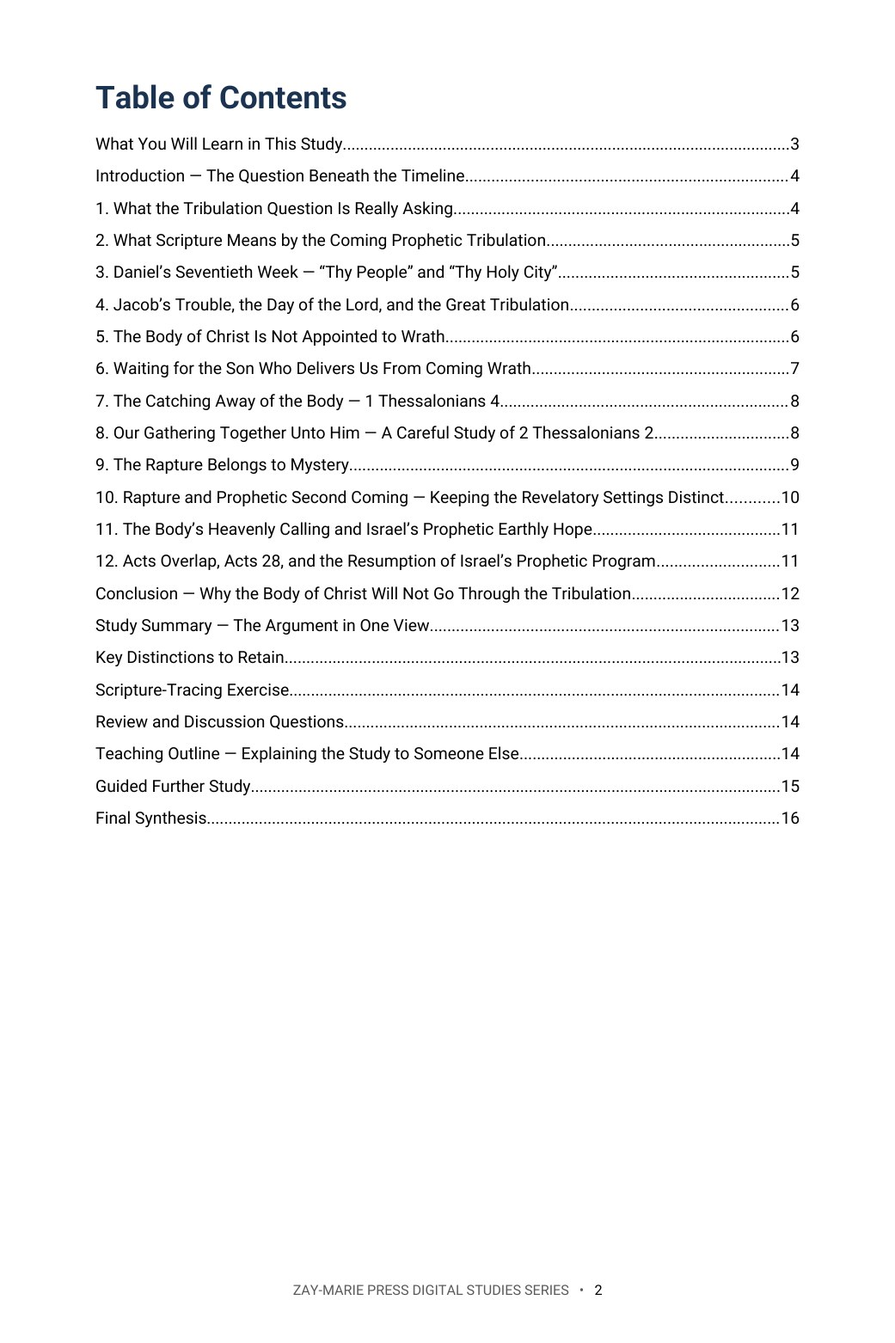
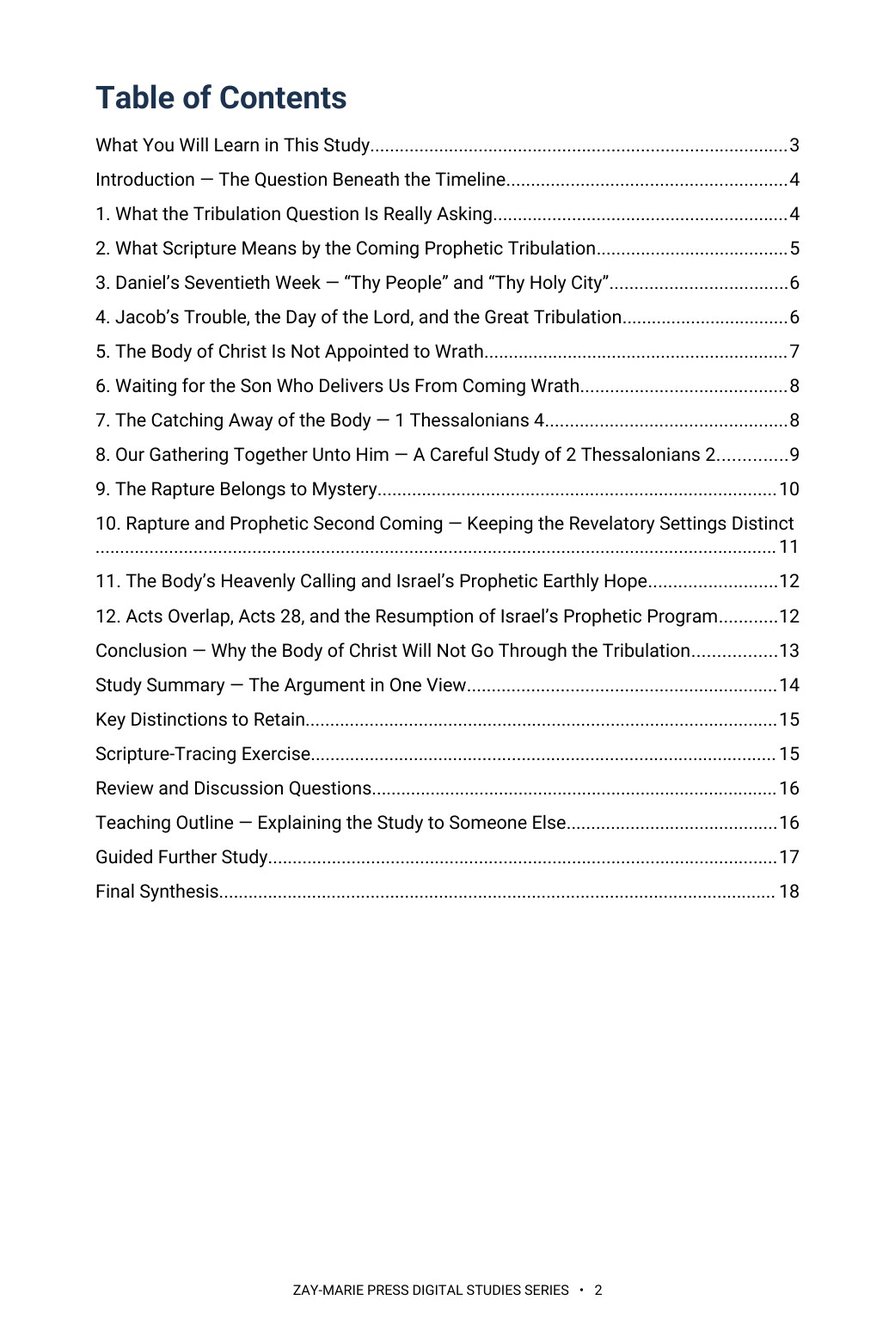
Study 3: rebuild at 18 pages with v1.51 imprint, Acts 28 sequence ruling, bulleted outlines; comparison-table preview moved to page 11
Claude-Session: https://claude.ai/code/session_01HC7bs9KYP2scp4hCL6DkTp

diff --git a/study-03-the-body-of-christ-and-the-tribulation.html b/study-03-the-body-of-christ-and-the-tribulation.html
@@ -46,10 +46,10 @@
 <section class="detail-section soft"><div class="wrap"><div class="eyebrow">A LOOK INSIDE</div><h2>Preview the Study Before You Purchase</h2><p class="preview-instruction">Click any page to enlarge it for reading.</p><div class="preview-grid">
 <div class="preview-card"><a class="preview-image-link" data-preview-lightbox href="assets/study-03-page-2.jpg"><img src="assets/study-03-page-2.jpg" alt="Study 3 interior preview — page 2, Table of Contents"/></a><div class="page-no">Page 2</div><h3>Table of Contents</h3><p>See the full structure of the study, from the introduction through the final synthesis.</p></div>
 <div class="preview-card"><a class="preview-image-link" data-preview-lightbox href="assets/study-03-page-3.jpg"><img src="assets/study-03-page-3.jpg" alt="Study 3 interior preview — page 3, What You Will Learn in This Study"/></a><div class="page-no">Page 3</div><h3>What You Will Learn</h3><p>See the study’s learning goals, including the prophetic identity of the Tribulation, Paul’s cumulative Thessalonian argument, the Rapture as Mystery truth, and the Acts Overlap chronology.</p></div>
-<div class="preview-card"><a class="preview-image-link" data-preview-lightbox href="assets/study-03-page-10.jpg"><img src="assets/study-03-page-10.jpg" alt="Study 3 interior preview — page 10, Rapture and Prophetic Second Coming comparison table"/></a><div class="page-no">Page 10</div><h3>Rapture &amp; Prophetic Second Coming</h3><p>Begin the comparison of the Body’s gathering with the prophetic Second Coming while preserving their distinct audiences, movements, purposes, and revelatory settings.</p></div>
+<div class="preview-card"><a class="preview-image-link" data-preview-lightbox href="assets/study-03-page-11.jpg"><img src="assets/study-03-page-11.jpg" alt="Study 3 interior preview — page 11, Rapture and Prophetic Second Coming comparison table"/></a><div class="page-no">Page 11</div><h3>Rapture &amp; Prophetic Second Coming</h3><p>Begin the comparison of the Body’s gathering with the prophetic Second Coming while preserving their distinct audiences, movements, purposes, and revelatory settings.</p></div>
 </div></div></section>
 <section class="detail-section"><div class="wrap"><div class="eyebrow">WHAT’S INCLUDED</div><h2>A Focused Study Built for<br/>Understanding and Teaching</h2><div class="includes-grid">
-<div class="include-item"><h3>16-Page In-Depth Biblical Study</h3><p>A focused examination of the Tribulation question built from audience, revelatory setting, programmatic identity, and cumulative biblical evidence.</p></div>
+<div class="include-item"><h3>17-Page In-Depth Biblical Study</h3><p>A focused examination of the Tribulation question built from audience, revelatory setting, programmatic identity, and cumulative biblical evidence.</p></div>
 <div class="include-item"><h3>12 Core Teaching Sections</h3><p>Progress from the identity of the prophetic Tribulation through Paul’s teaching on the Body’s gathering, heavenly hope, and Acts Overlap chronology.</p></div>
 <div class="include-item"><h3>Study Summary &amp; Key Distinctions</h3><p>Retain the controlling distinctions between ordinary suffering and prophetic wrath, programmatic identity and chronology, Mystery and Prophecy, and suspension and cancellation.</p></div>
 <div class="include-item"><h3>Scripture-Tracing Exercise</h3><p>Record audience, event or promise, programmatic setting, and each passage’s contribution before consulting the study’s conclusions.</p></div>
@@ -58,7 +58,7 @@
 <div class="include-item"><h3>Six Guided Further-Study Investigations</h3><p>Trace prophetic wrath, Daniel’s people and city, the gathering passages, disputed details, the Body’s heavenly calling, and Acts Overlap chronology.</p></div>
 <div class="include-item"><h3>Final Synthesis Exercise</h3><p>Construct a two- to three-page biblical explanation of why the Acts Overlap places the Body outside Israel’s future prophetic Tribulation.</p></div>
 </div></div></section>
-<section class="detail-section cream"><div class="wrap"><div class="final-buy"><div><div class="eyebrow">STUDY 3 · DIGITAL STUDY</div><h2>The Body of Christ and the Tribulation</h2><p>16-page digital PDF · For personal use</p></div><div class="final-offer"><div class="detail-price">$5.99</div><span class="detail-button pending" aria-disabled="true">Get the Study</span></div></div><a class="back-link" href="digital-studies.html">← Back to All Digital Studies</a></div></section>
+<section class="detail-section cream"><div class="wrap"><div class="final-buy"><div><div class="eyebrow">STUDY 3 · DIGITAL STUDY</div><h2>The Body of Christ and the Tribulation</h2><p>17-page digital PDF · For personal use</p></div><div class="final-offer"><div class="detail-price">$5.99</div><span class="detail-button pending" aria-disabled="true">Get the Study</span></div></div><a class="back-link" href="digital-studies.html">← Back to All Digital Studies</a></div></section>
 <section class="study-method-course-bridge"><div class="wrap"><div class="study-method-course-panel"><div><div class="eyebrow">BUILD THE INTERPRETIVE METHOD</div><h2>Want More Than a Focused Study?</h2><p>Digital Studies examine particular biblical subjects and difficult passages. The 40-lesson Biblical Hermeneutics course teaches a complete, repeatable method for establishing meaning in context, determining proper assignment, and making responsible application.</p></div><a class="btn btn-primary" href="biblical-hermeneutics-course.html">BIBLICAL HERMENEUTICS COURSE</a></div></div></section></main><div class="preview-lightbox" id="preview-lightbox" role="dialog" aria-modal="true" aria-label="Enlarged study page preview"><button class="preview-lightbox-close" type="button" aria-label="Close enlarged preview">×</button><img src="" alt=""/><div class="preview-lightbox-hint">Scroll to read the full page · Press Esc or click outside the page to close</div></div>
 <footer class="site-footer"><div class="wrap footer-grid"><div class="footer-about"><h3>Zay-Marie Press</h3><p class="footer-tagline"><em>Where the Bible Means What It Says.</em></p><p>Zay-Marie Press is a Christian theological publisher dedicated to producing doctrinally precise, carefully structured biblical resources that equip pastors, teachers, and serious students with clarity, depth, and Scripture-anchored truth.</p><p><a href="https://zaymariepress.com">zaymariepress.com</a><br/><a href="mailto:info@zaymariepress.com">info@zaymariepress.com</a></p></div><div class="footer-column"><h3>Explore</h3><div class="footer-links-stacked"><a href="books.html">Books</a><br/><a href="series.html">Series</a><br/><a href="biblical-hermeneutics-course.html">Course</a><br/><a href="digital-studies.html">Digital Studies</a><br/><a href="resources.html">Resources</a><br/><a href="bible-book-summaries.html">Bible Book Summaries</a><br/><a href="doctrinal-packets.html">Doctrinal Packets</a><br/><a href="historical-drift.html">Historical Drift</a><br/><a href="about.html">About</a><br/><a href="contact.html">Contact</a></div></div><div class="footer-column"><h3>Reader Support</h3><div class="footer-links-stacked"><a href="reader-support.html#faq">FAQ</a><br/><a href="reader-support.html#shipping-returns">Shipping &amp; Returns</a><br/><a href="reader-support.html#digital-downloads">Digital Downloads</a><br/><a href="reader-support.html#contact-support">Contact Support</a></div></div><div class="footer-column"><h3>Acts Overlap</h3><p><strong>Acts Overlap Theology Series</strong></p><p><em>Two Distinct Streams. One Overlap.</em></p><p><a href="series.html">Series Overview</a></p></div></div><div class="wrap footer-bottom">© 2026 Zay-Marie Press. All rights reserved.</div></footer>
 <script src="site.js"></script><script>(function(){var box=document.getElementById("preview-lightbox"),img=box.querySelector("img"),close=box.querySelector(".preview-lightbox-close"),hint=box.querySelector(".preview-lightbox-hint"),hintTimer;function shut(){clearTimeout(hintTimer);box.classList.remove("open");hint.classList.remove("fade");document.body.style.overflow="";img.src="";}document.querySelectorAll("[data-preview-lightbox]").forEach(function(a){a.addEventListener("click",function(e){e.preventDefault();clearTimeout(hintTimer);img.src=a.getAttribute("href");img.alt=a.querySelector("img").alt;hint.classList.remove("fade");box.classList.add("open");document.body.style.overflow="hidden";box.scrollTop=0;hintTimer=setTimeout(function(){hint.classList.add("fade");},3000);});});close.addEventListener("click",shut);box.addEventListener("click",function(e){if(e.target===box)shut();});document.addEventListener("keydown",function(e){if(e.key==="Escape"&&box.classList.contains("open"))shut();});})();</script>

diff --git a/site.js b/site.js
@@ -62,7 +62,7 @@ const resourceModal=document.querySelector('#resource-modal'), resourceModalTitl
 if(resourceModal&&resourceModalTriggers.length){const closeResourceModal=()=>{resourceModal.hidden=true;document.body.classList.remove('resource-modal-open');lastResourceTrigger?.focus();};resourceModalTriggers.forEach(trigger=>trigger.addEventListener('click',()=>{lastResourceTrigger=trigger;if(resourceModalTitle)resourceModalTitle.textContent=trigger.dataset.title||'Resource';if(resourceModalDescription)resourceModalDescription.textContent=trigger.dataset.description||'';if(resourceModalLink){resourceModalLink.href=trigger.dataset.href||'#';resourceModalLink.textContent=trigger.dataset.linkText||'OPEN RESOURCE';}resourceModal.hidden=false;document.body.classList.add('resource-modal-open');resourceModalClose?.focus();}));resourceModalClose?.addEventListener('click',closeResourceModal);resourceModal.addEventListener('click',e=>{if(e.target===resourceModal)closeResourceModal();});document.addEventListener('keydown',e=>{if(e.key==='Escape'&&!resourceModal.hidden)closeResourceModal();});}
 
 /* Display the verified final-PDF page count at the primary purchase decision point. */
-const digitalStudyPageCounts={1:20,2:19,3:16,4:17,5:15,6:15,7:14,8:13,9:15,10:20,11:15,12:15,13:18,14:15,15:15,16:16,17:17,18:18,19:18,20:18,21:16,22:15,23:14,24:16,25:17,26:16,27:16,28:17,29:19,30:18,31:19,32:19,33:18,34:20,35:22,36:20,37:21,38:22,39:22,40:23,41:21,42:17,43:16,44:19,45:19,46:20,47:20,48:20,49:20,50:20,51:20,52:19,53:19,54:17,55:20,56:20,57:20,58:19,59:20,60:15,61:14,62:18,63:17,64:17,65:16,66:16,67:17,68:16,69:17,70:17,71:16};
+const digitalStudyPageCounts={1:20,2:19,3:18,4:17,5:15,6:15,7:14,8:13,9:15,10:20,11:15,12:15,13:18,14:15,15:15,16:16,17:17,18:18,19:18,20:18,21:16,22:15,23:14,24:16,25:17,26:16,27:16,28:17,29:19,30:18,31:19,32:19,33:18,34:20,35:22,36:20,37:21,38:22,39:22,40:23,41:21,42:17,43:16,44:19,45:19,46:20,47:20,48:20,49:20,50:20,51:20,52:19,53:19,54:17,55:20,56:20,57:20,58:19,59:20,60:15,61:14,62:18,63:17,64:17,65:16,66:16,67:17,68:16,69:17,70:17,71:16};
 const digitalStudyMatch=window.location.pathname.match(/\/study-(\d+)-/i);
 const digitalStudyFormat=document.querySelector('.detail-hero .detail-format');
 if(digitalStudyMatch&&digitalStudyFormat){const studyNumber=Number(digitalStudyMatch[1]),pageCount=digitalStudyPageCounts[studyNumber];if(pageCount)digitalStudyFormat.textContent=`Digital PDF · ${pageCount} Pages`;}

diff --git a/build-tools/studies/b03/ed03r.py b/build-tools/studies/b03/ed03r.py
@@ -1,0 +1,41 @@
+from edcommon import *
+import re
+SUSP="nationally suspended—not canceled, transferred or absorbed"
+SEQ="Acts 28 establishes the suspension boundary; the sequence this study draws from it — the Body’s gathering before Israel’s prophetic program resumes — rests on 1 Thessalonians 4–5 and 2 Thessalonians 2, not on Acts 28 alone."
+def apply(els):
+    assert T(els[3])=='By the end of the study, you should be able to:'
+    els[3]=mk('body',[['By the end of this study, you should be able to:',False,False]])
+    rep(els,'Explain why Daniel’s seventieth week concerns Daniel’s people and holy city.','Read Daniel 9:24–27 for the audience the prophecy names, and test whether the seventieth week can be relabeled without changing that audience.')
+    rep(els,'Explain 1 Thessalonians 1:10, 4:13–18, and 5:1–9 as a cumulative Pauline argument.','Follow 1 Thessalonians 1:10, 4:13–18 and 5:1–9 passage by passage, noting how each adds to the one before it.')
+    rep(els,'Explain why the Rapture belongs to the Mystery revealed through Paul.','Trace where the catching away of the Body is revealed in Scripture, and compare its revelatory setting with the prophetic Tribulation passages.')
+    rep(els,'Use the Acts Overlap chronology to explain why Prophecy can resume after the present Mystery purpose is complete.','Follow the Acts 9–28 overlap and the Acts 28 passage, noting what each says about the two programs and what each leaves unstated.')
+    rep(els,'Trace and reproduce the biblical reasoning for the Body’s pre-Tribulation gathering to Christ.','Practise restating, from the passages and in your own words, how each step of the study’s argument is built, so that you can reproduce it for someone else.')
+    # Study Outline and Teaching Outline: group lines bullet / number, items second level
+    def regroup(h,group_kind):
+        a=[k for k,e in enumerate(els) if P(e) and e['kind'] in('sub','h1') and T(e).startswith(h)][0]+1
+        k=a
+        while not (els[k]['kind']=='h1'  or (els[k]['kind']=='ctitle')):
+            e=els[k]; t=T(e)
+            if e['kind']=='body' and re.match(r'^[IVX]+\. ',t): els[k]=mk(group_kind,[[re.sub(r'^[IVX]+\. ','',t),False,False]])
+            elif e['kind']=='bul': els[k]=mk('bul2',[[t,False,False]])
+            k+=1
+    regroup('Study Outline','bul')
+    regroup('Teaching Outline','num')
+    # Acts 28 conforming
+    rep(els,'At Acts 28, Israel’s active Prophecy Program enters national judicial suspension, not abolition and not a transfer. The Mystery Program continues beyond Acts 28. Suspension, however, is not cancellation. God’s covenants','At Acts 28, Israel’s active Prophecy Program was %s. %s The Mystery Program continues beyond Acts 28. God’s covenants'%(SUSP,SEQ))
+    rep(els,'Acts 28 is the national judicial suspension, not abolition and not a transfer of Israel’s active Prophecy Program; Mystery continues.','At Acts 28 Israel’s active Prophecy Program was %s; Mystery continues.'%SUSP)
+    rep(els,'At Acts 28, Israel’s active Prophecy Program entered national judicial suspension, not abolition and not a transfer while Mystery continued.','At Acts 28, Israel’s active Prophecy Program was %s—while Mystery continued.'%SUSP.replace('—not','—not',1))
+    rep(els,'Acts 28 is the national judicial suspension, not abolition and not a transfer of Prophecy without canceling Israel’s promises.','At Acts 28 Israel’s Prophecy Program was %s, and Israel’s promises stand.'%SUSP)
+    rep(els,'Acts 28: national judicial suspension of Prophecy (not abolition, not a transfer); Mystery continues','Acts 28: Prophecy nationally suspended (not canceled, transferred or absorbed); Mystery continues')
+    rep(els,'Prophecy under national judicial suspension, not abolition and not a transfer at Acts 28 while Mystery continues.','Prophecy nationally suspended—not canceled, transferred or absorbed—at Acts 28 while Mystery continues.')
+    n=0
+    for e in els:
+        if e['type']=='tbl':
+            for r in e['rows']:
+                for ci,c in enumerate(r):
+                    if c=='Acts 28 national judicial suspension of Prophecy': r[ci]='Acts 28 national suspension of Prophecy'; n+=1
+    assert n==1
+    i=find(els,'This is overlap, not replacement, blending')
+    ins_after_idx(els,i,R17)
+    number_outline(els)
+    return els

diff --git a/build-tools/fixnum2.py b/build-tools/fixnum2.py
@@ -7,6 +7,7 @@ numpart=d.part.numbering_part.element
 groups=[];cur=[]
 for p in d.paragraphs:
     if p.style.name=='List Number': cur.append(p)
+    elif p.style.name=='List Bullet 2' and cur: pass
     else:
         if cur: groups.append(cur); cur=[]
 if cur: groups.append(cur)

diff --git a/CLAUDE.md b/CLAUDE.md
@@ -26,7 +26,7 @@ These are kept in the repo at `controlling-documents/` and are the current versi
 - **`build-tools/`** — the study rebuild toolkit (scripts, per-study edit files, README), committed 2026-10-04 at the publisher's approval so the retrofit method and every per-study wording edit survive a session reset. Working tools only; the site does not use them. Not a rule.
 **`controlling-documents/Digital_Studies_Relationship_Map_v1.39.md`** — records each study's distinct subject, its related studies, the eight priced six-study collections, the Paul's Missionary Journeys cross-reference map, and the five primary catalog categories (currently version 1.39, covers Studies 1–71; update it as new studies publish, bump the version number, rename the file to match, and log the change in its own version-history table — mirroring the Master Standard's `_vX.Y` filename convention). Check a proposed topic against it before recommending or writing a new study. (2026-09-28: the file was missing from this repo despite this note referencing it; replaced from the publisher's copy and bumped v1.15→v1.25 in the same pass. If this note ever again points to a version not present under `controlling-documents/`, ask the publisher for a copy rather than proceeding without the check.)
 - **`controlling-documents/Digital_Studies_Category_Standard_v1.1.md`** — FINAL and binding (publisher, 2026-10-01): the rules for the five primary catalog categories (Foundations, Israel & Prophecy, Body of Christ, Passages, Doctrinal Themes), the ordered decision procedure for new studies, the precedents, all 71 fixed assignments, and the cover-label form for each category. Read it before placing any card or cover label. Do not ask the publisher where a study belongs; apply the procedure and state the result. Only the publisher changes a ruling; then bump this Standard's version and filename, re-letter the cover, and update the Relationship Map.
-- **`controlling-documents/Doctrinal_Upgrade_Retrofit_Plan_v1.135.md`** — working tracker for retrofitting Studies 1–59 to the 2026-10-02 doctrinal upgrade (Framework/PAM v1.1, Master Standard v1.40, Rules 7–17): withdrawn-wording search keys, impact tiers, waves and the per-study method. Read it before continuing the retrofit in any session; update status, bump the version and rename the file as work proceeds.
+- **`controlling-documents/Doctrinal_Upgrade_Retrofit_Plan_v1.136.md`** — working tracker for retrofitting Studies 1–59 to the 2026-10-02 doctrinal upgrade (Framework/PAM v1.1, Master Standard v1.40, Rules 7–17): withdrawn-wording search keys, impact tiers, waves and the per-study method. Read it before continuing the retrofit in any session; update status, bump the version and rename the file as work proceeds.
 - **`controlling-documents/Doctrinal_Packet_Standard_v0.3.md`** — Doctrinal Packet Standard (DRAFT; §7 approved). Governs the separate Doctrinal Packets product strand (5-page interpretive PDFs per Bible book — a print-friendly cover as page 1 plus 4 content pages, $2.99, KJV, pilot: Genesis, live at `packet-genesis.html`, hub `doctrinal-packets.html`; site pages say "5 Pages", cover styles live in `packets.css`, Old Testament blue and New Testament soft pale green, hub listed in Bible order). **Preview rule (publisher directive, 2026-09-29, packets only):** previews show about one page's worth in two cropped views (top of page 1 through the anchor texts; the chart section) — never the exegesis, architecture, Mystery contrast, logic chain, outline, or closing. Master Standard §16/§17 still govern Digital Studies. Bump the version and rename the file as the Standard is finalized.
 - **`controlling-documents/Preview_Page_Spoiler_Retrofit_Audit_v1.4.md`** — working tracker for the Studies 1–60 preview-page conclusion-spoiler retrofit (see the section below). Read it before continuing that audit in any session; update its status fields and changelog, bump the version, and rename the file to match as the audit proceeds — same `_vX.Y` convention as the other controlling documents. As of v1.1, the website-side half was DONE: all 60 studies' "What You'll Study" text was judged against the rule (methodology documented in the file) and 22 points across 11 studies were rewritten and pushed; an unrelated Study 22 content bug (Study 21's content had leaked into it) was also found and fixed. As of v1.2, the publisher supplied Studies 1–60's interior production PDFs and the interior-PDF half was also surveyed (read-only): 10 studies (37, 41, 45, 47, 48, 49, 51, 52, 53, 54) were found to have at least one interior "What You Will Learn" violation, 50 studies were confirmed compliant, and the orphaned `assets/study-45-sanctification-under-grace.docx` (removed from the repo per the publisher in v1.0) was confirmed word-for-word identical to Study 45's actual production interior PDF content. As of v1.3, the publisher supplied editable DOCX sources for all 10 violating studies; all 15 violating points were rewritten and approved, delivered as corrected final PDFs, and — along the way — a second defect was found and fixed (Studies 47 and 48's source DOCX still had an unintegrated cover placeholder despite both being long-published live with real covers; fixed by inserting the existing approved cover art). The website's "What You Will Learn" preview image (`study-NN-page-3.jpg`) was regenerated from the corrected content for all 10 studies and pushed to `main` (commit `cea1859`), verified against a fresh clone. **The website side of this audit is now fully compliant for all 60 studies.** Outstanding: the publisher's purchasable interior PDF files themselves have corrected versions delivered, but distribution to existing purchasers was decided by the publisher on 2026-09-29: silent swap of the files behind the existing downloads, no reissue notice (recorded in the v1.4 changelog entry; the product files are not in this repo).
 

diff --git a/controlling-documents/Doctrinal_Upgrade_Retrofit_Plan_v1.136.md b/controlling-documents/Doctrinal_Upgrade_Retrofit_Plan_v1.136.md
@@ -228,3 +228,5 @@ Working tracker for correcting published studies to the Framework/PAM v1.1, Mast
 - v1.133 (2026-10-04): Study 50 rebuilt in Roboto at 10 pt on the current page, 20 pages (was 19), from the publisher's FINAL ROBOTO DOCX. Publisher rulings: (1) Section 5.1 'Shared Ground' renamed 'What Both Elections Share: God’s Sovereign Initiative' (option 1) — the section says each election is made by God’s initiative, not man’s (Deut 7:7; Eph 2:8–9), Romans 11:6 removed from the pairing, and every 'shared ground' reference became 'shared feature' (Rule 19: no shared saving ground stated); (2) 2 Thessalonians 2:13–14 gets the boundary sentence 'The Day of the Lord described earlier in the chapter (2:1–12) belongs to Israel’s Prophecy Program; this study draws on verses 13–14 only…', passage-form audience sentence kept. Conforming: four withdrawn Acts 28 lines ('judicial suspension … administrative condition, with membership unchanged'; 'unbelief suspends in administration'; 'present national unbelief has suspended'; a Jeremiah line implying unbelief causes suspension) replaced with the standing 'nationally suspended at Acts 28—not canceled, transferred or absorbed' line and the boundary sentence once; Study Outline bulleted; What You Will Learn bullet 5 reworded to process wording. Lettered group labels in Guided Further Study left as labels. Website: page text 19 to 20 (interior line 19), site.js 50:20; previews 2, 3 and 5 re-rendered (page 5 still Deuteronomy 7 and Romans 9). Item closed. Publisher-approved 2026-10-04.
 - v1.134 (2026-10-04): Study 47 rebuilt in Roboto at 10 pt on the current page, 20 pages (was 19), from the publisher's FINAL ROBOTO DOCX. Publisher ruling on the Romans 15:27 sentence (Section 12): 'participation in blessing, not identity' (close to the withdrawn 'Gentiles participate spiritually' wording) replaced by 'Romans 15:27 says the Gentiles “have been made partakers of their spiritual things” and are debtors to them in carnal things. That records a debt of gratitude between two companies during the overlap, not a place in Israel’s covenants or in Israel’s program. Participation is not identity. Blessing is not covenant. Standing is not program membership.' Conforming: What You Will Learn lead-in added and four topic bullets reworded to process wording; Study Outline bulleted. Ten KJV tables, five callouts, imprint unchanged. Website: page text 19 to 20 (interior line 19), site.js 47:20; previews 2, 3 and 12 re-rendered, the third preview moved from page 11 to page 12 (the harvest-of-righteousness KJV table now falls there), study-47-page-11.jpg removed. Item closed; the Wave 5 open list is now Study 61 (PDF-only retrofit) only. Publisher-approved 2026-10-04.
 - v1.135 (2026-10-04): Study 61 PDF-only retrofit done. Rebuilt in Roboto at 10 pt on the current page from the publisher's 16-page final PDF (old 468×684 page, DejaVu/Liberation fonts; no DOCX), 14 pages (cover plus 13; was 16). Conformed: What You Will Learn lead-in plus bullets (bullets 4 and 5 and the Study Goal reworded to process wording, bullet 3 kept as the model); five callouts (the third Key Distinction became a run-in); flat TOC without Study Goal or Study Outline; Study Outline bulleted; Teaching Outline numbered; 'controlling framework' reworded to a reader-facing 'controlling distinction'; Body-absence sentence added to Section 2; imprint replaced with the v1.51 notice. Publisher ruling option 1: four neutral KJV tables (Rev 12:1–2; 12:3–5; 12:6–9 with 12:13–16; 12:10–12 with 12:17), KJV text fetched from kingjamesbibleonline.org (Rev 12:1–17). Content correction flagged to the publisher: the quoted 'a great sign' (12:1, 12:3) is not KJV wording ('wonder') and 'a formula he uses only twice' is wrong (Rev 15:1 'another sign'); Section 1 now reads 'great wonder', notes sēmeion, and the heading is 'A Great Wonder in Heaven'. Doctrine (woman = Israel; male child = 144,000; harpazō) unchanged. Website: page text 16 to 14 (interior line 13), site.js 61:14, include item now 'KJV Tables and Summary Table'; previews 2, 3 and 4 (the Section 1 page replaces old page 5; study-61-page-5.jpg removed; h3 'A Great Wonder in Heaven'). Wave 5 open list now empty. Publisher-approved 2026-10-04.
+
+- v1.136 (2026-10-04): Imprint scan, Study 3 rebuilt at 18 pages (was 16): v1.51 imprint, nine Acts 28 conformings with the Study 3 sequence sentence (1 Thess 4–5, 2 Thess 2), R17 inserted, bulleted What You Will Learn, two-level outlines. Website: site.js 3:18, include/buy text 17-page, comparison-table preview moved page 10 to 11 (asset renamed), previews 2, 3, 11. Studies 7, 8, 10, 2 remain on the imprint list. Publisher-approved 2026-10-04.

diff --git a/controlling-documents/Digital_Studies_PAM_Audit_v1.230.md b/controlling-documents/Digital_Studies_PAM_Audit_v1.230.md
@@ -459,3 +459,4 @@ Study 15 PDF not yet supplied. Typography: none of Studies 2, 3, 6, 8 is in EB G
 - v1.227 (2026-10-04): Study 50 rebuilt at 20 pages with the Shared Ground and 2 Thessalonians 2:13–14 rulings (see Retrofit Plan v1.133).
 - v1.228 (2026-10-04): Study 47 rebuilt at 20 pages with the Romans 15:27 ruling (see Retrofit Plan v1.134).
 - v1.229 (2026-10-04): Study 61 rebuilt at 14 pages with KJV tables (see Retrofit Plan v1.135); Wave 5 open list closed.
+- v1.230 (2026-10-04): Study 3 rebuilt at 18 pages with v1.51 imprint, Acts 28 sequence sentence ruling, bulleted What You Will Learn (see Retrofit Plan v1.136).
